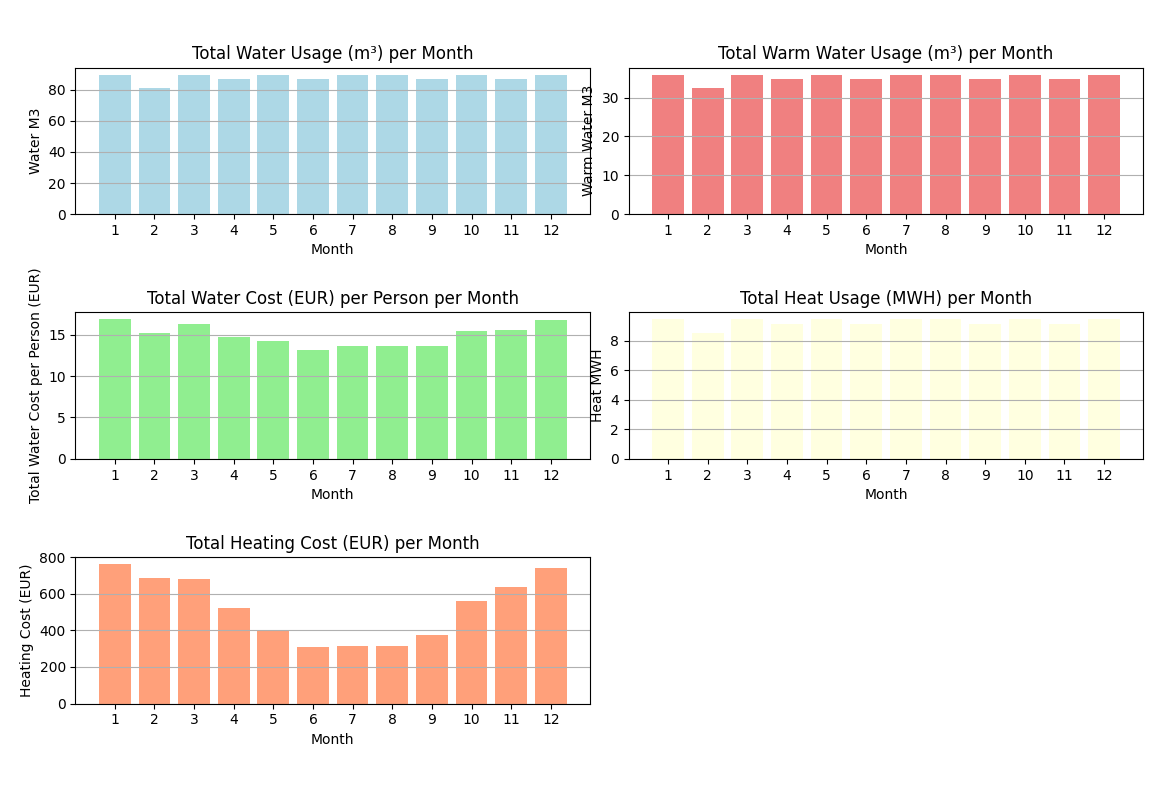
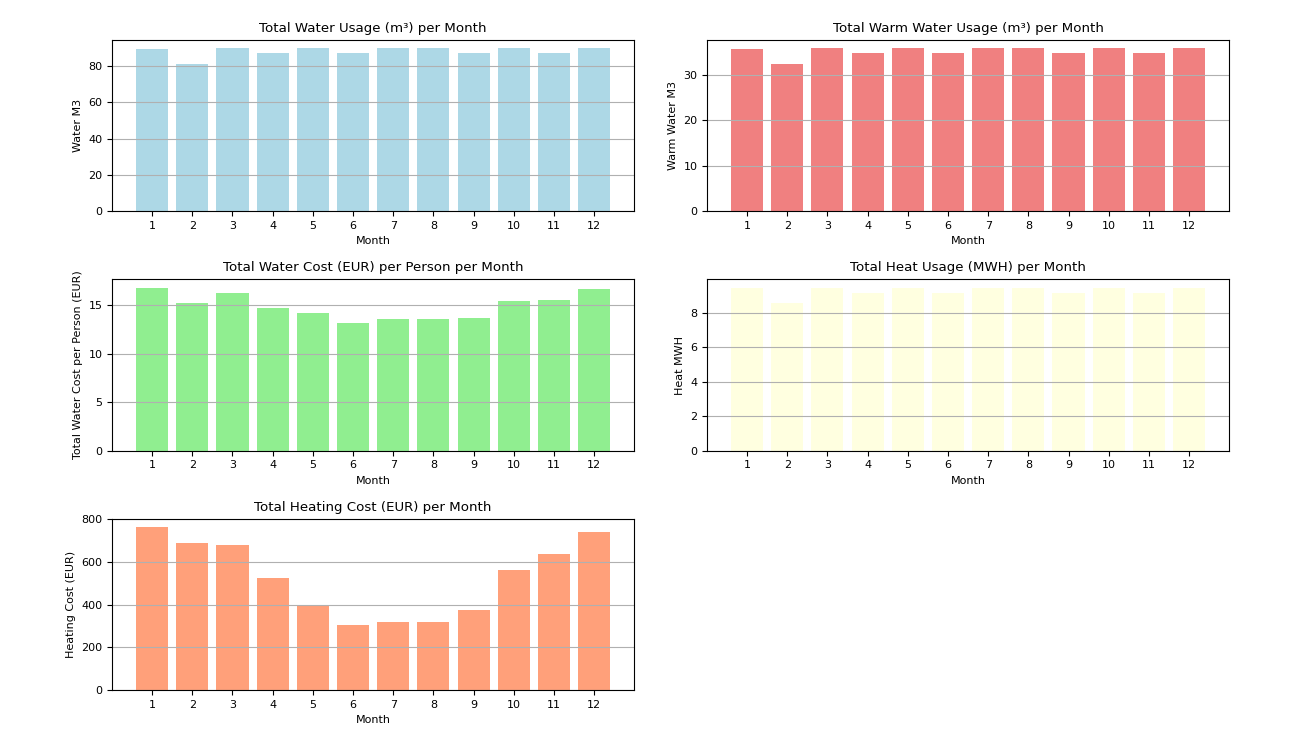
diagram updated

Changed region(s): [[0.0, 0.0308, 0.9991, 0.9853]]

diff --git a/visualize_water_cost.py b/visualize_water_cost.py
@@ -7,7 +7,7 @@ from scipy.stats import iqr
 
 
 monthly_aggregated = pd.read_csv('arima_aggregated_forecast.csv',sep=',')
-
+plt.rc('font', size=8)
 print(monthly_aggregated.info())
 
 plt.figure(figsize=(18, 12))
